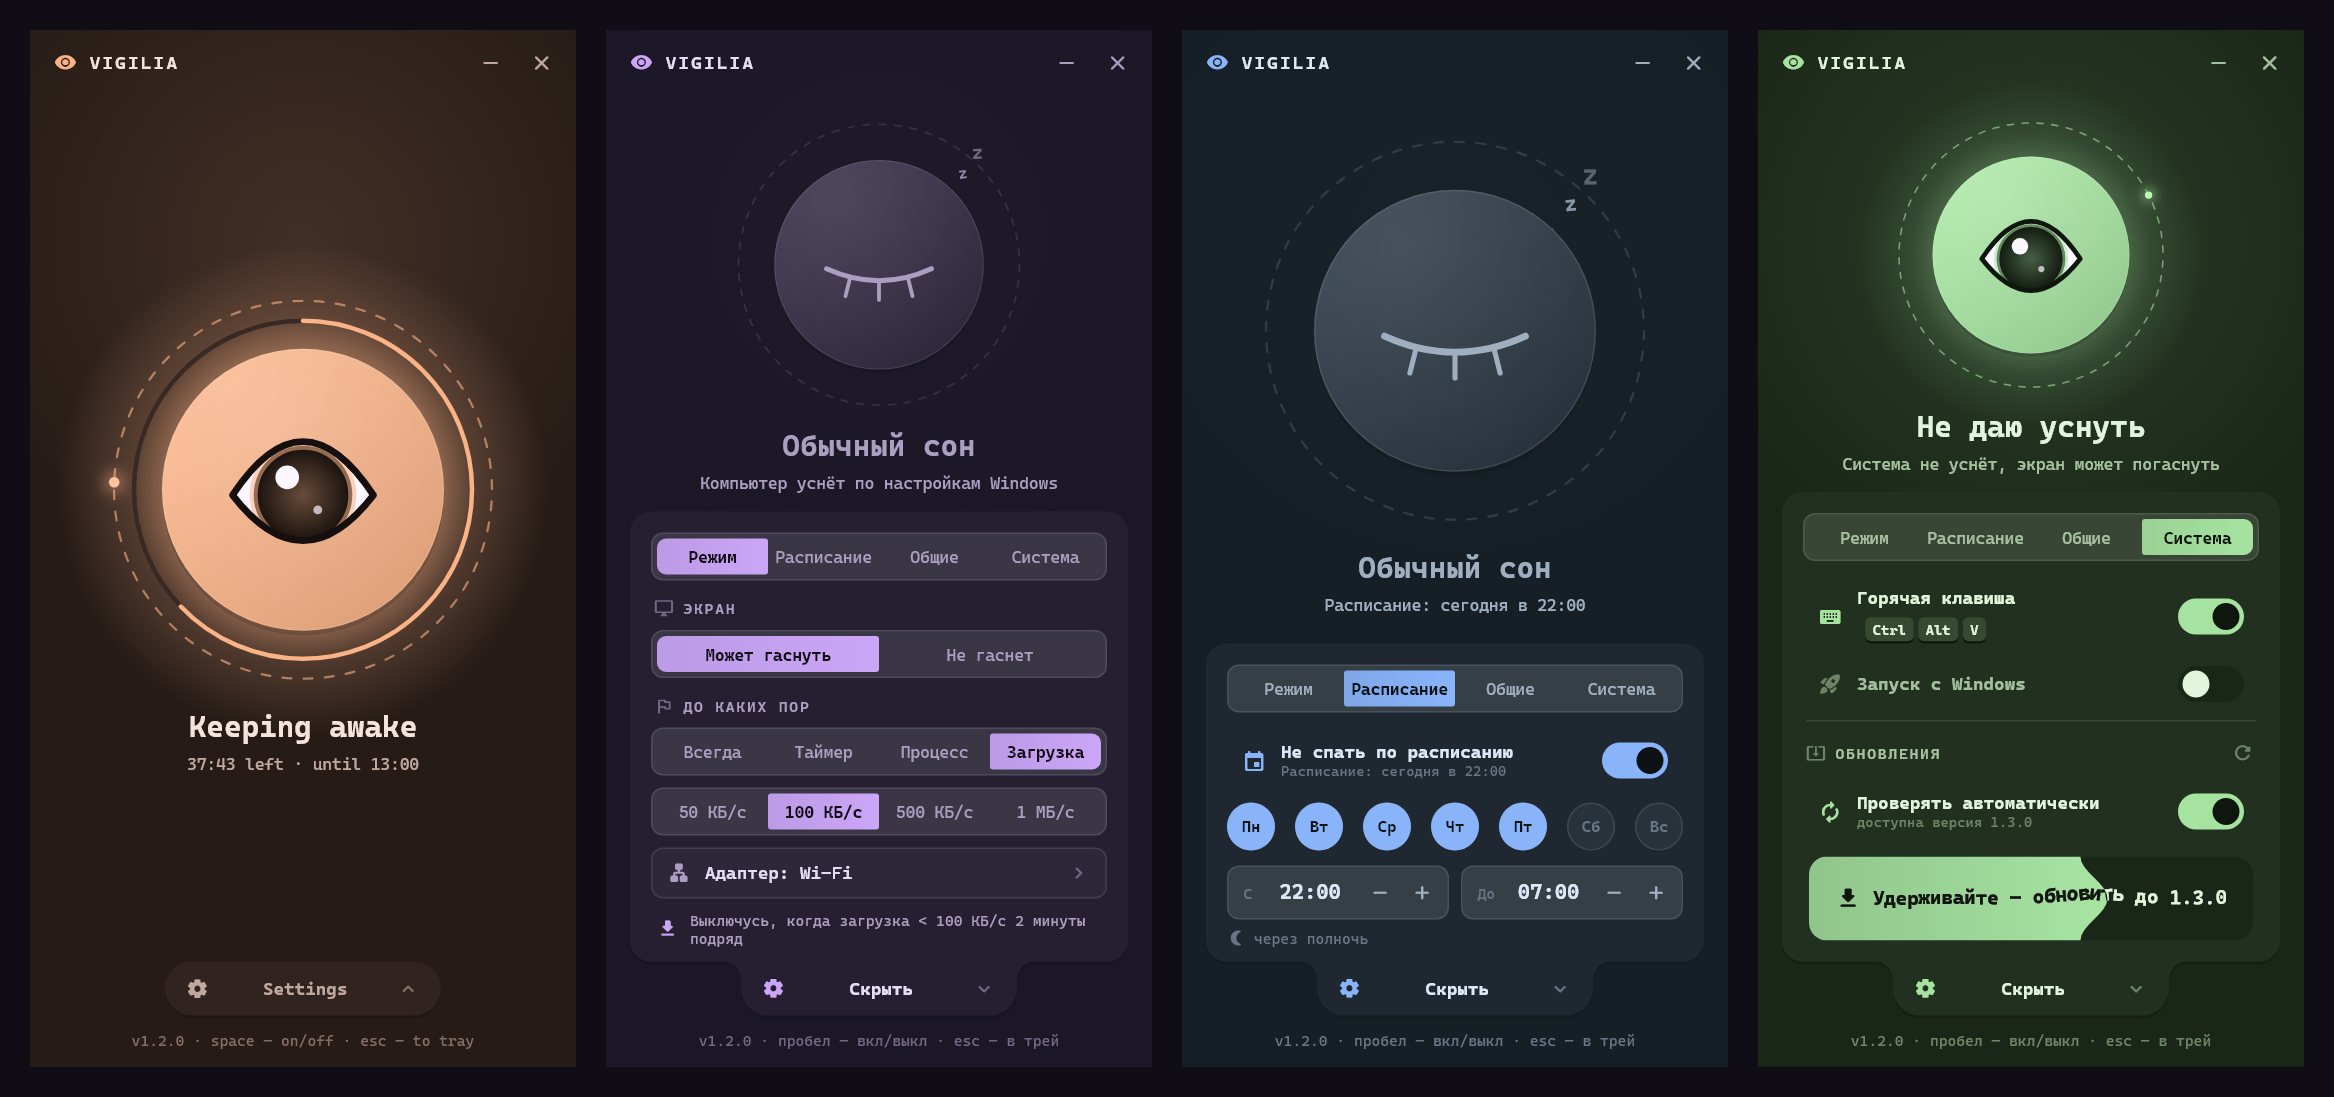
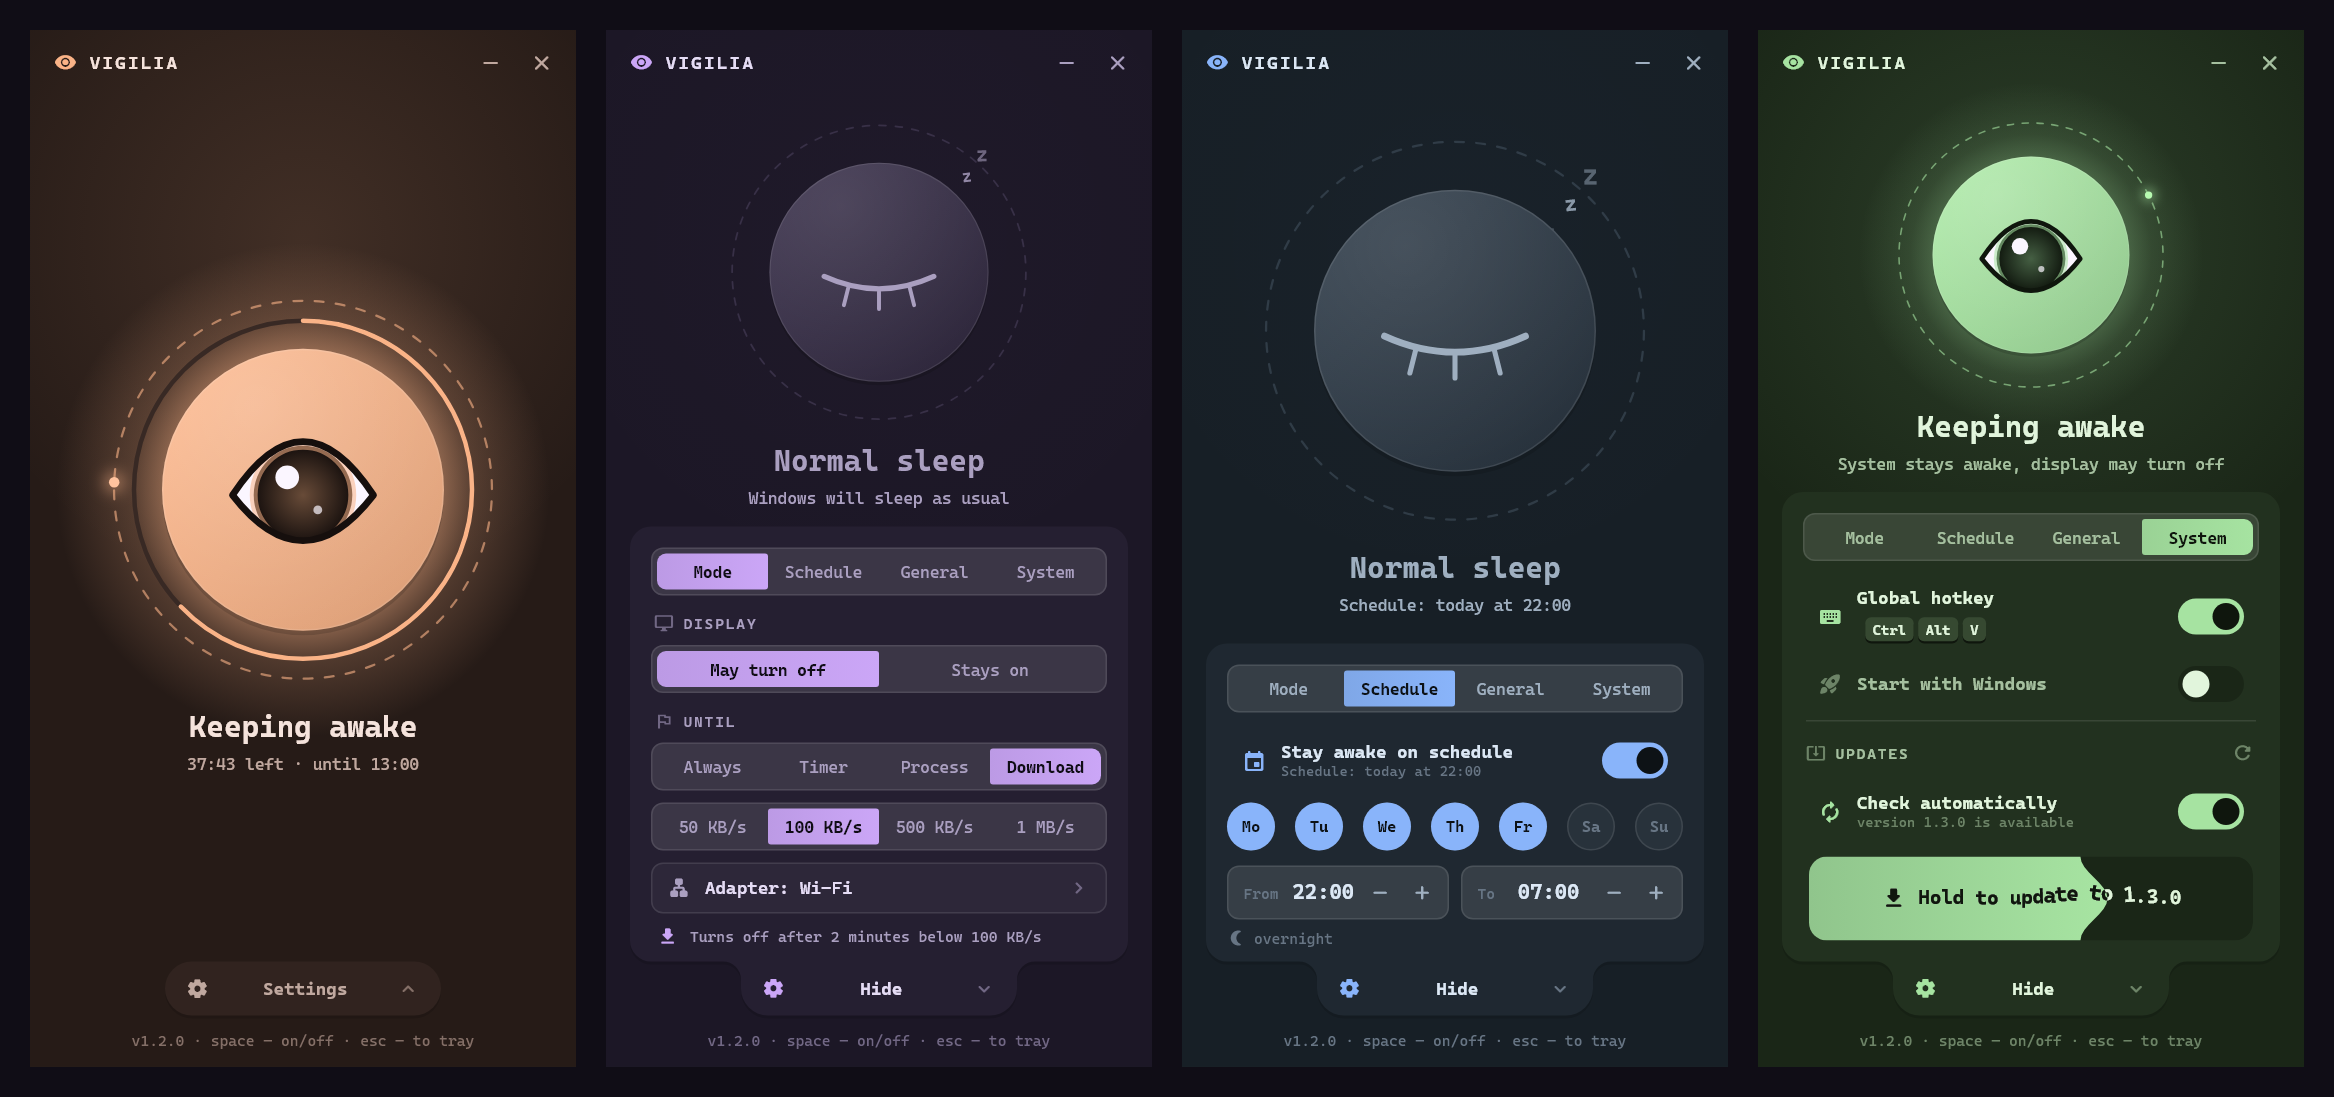
Скриншоты README на английском и русском

diff --git a/README.ru.md b/README.ru.md
@@ -4,7 +4,7 @@
 
 Маленькое приложение для Windows, которое не даёт компьютеру уснуть. Главная кнопка — глаз: закрыт — обычный сон, открыт — компьютер бодрствует. Интерфейс на русском и английском.
 
-![Vigilia: таймер, «Режим» с загрузкой, «Расписание», «Система» с кнопкой обновления](docs/screenshot.png)
+![Vigilia: таймер, «Режим» с загрузкой, «Расписание», «Система» с кнопкой обновления](docs/screenshot-ru.png)
 
 ## Возможности
 
